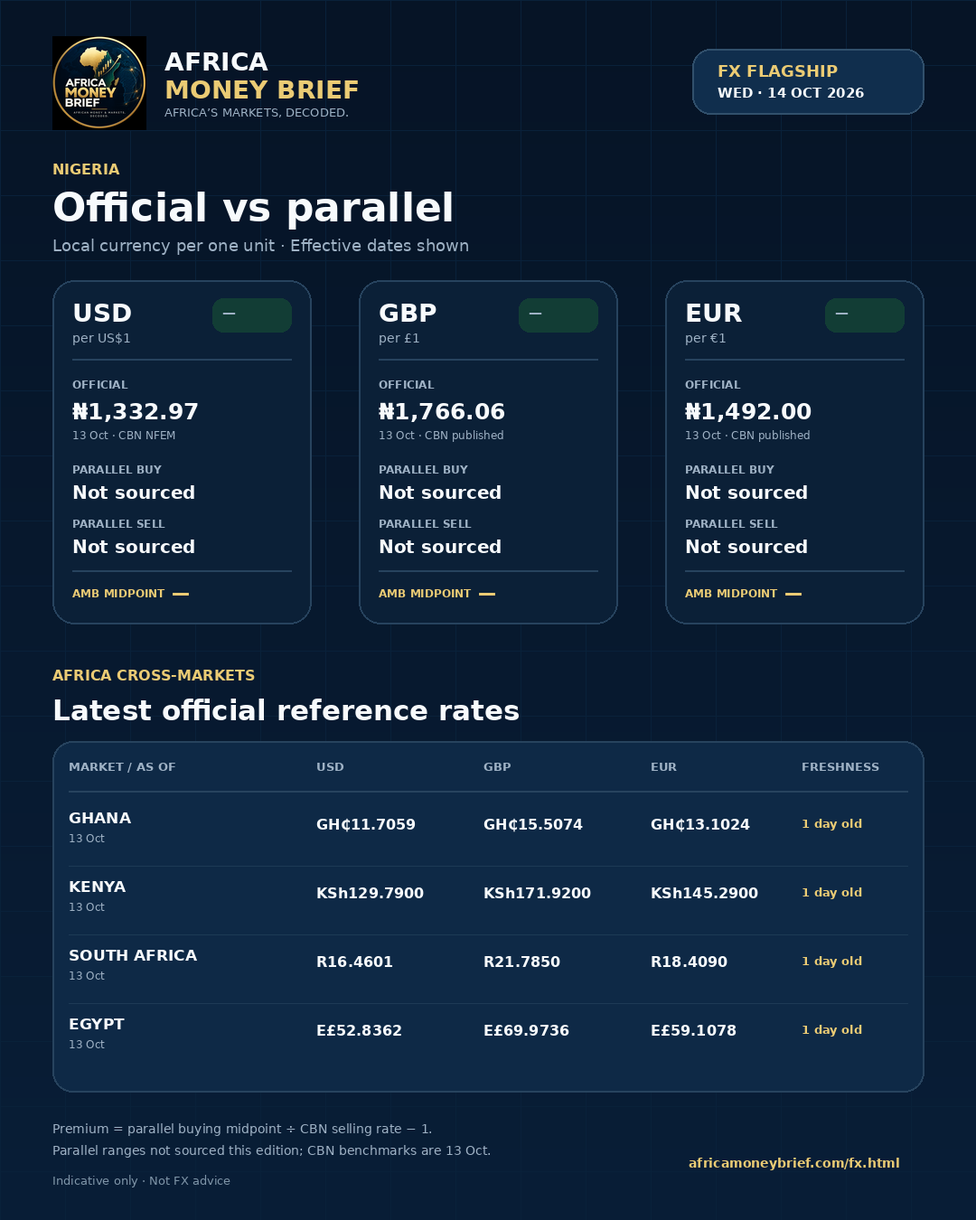
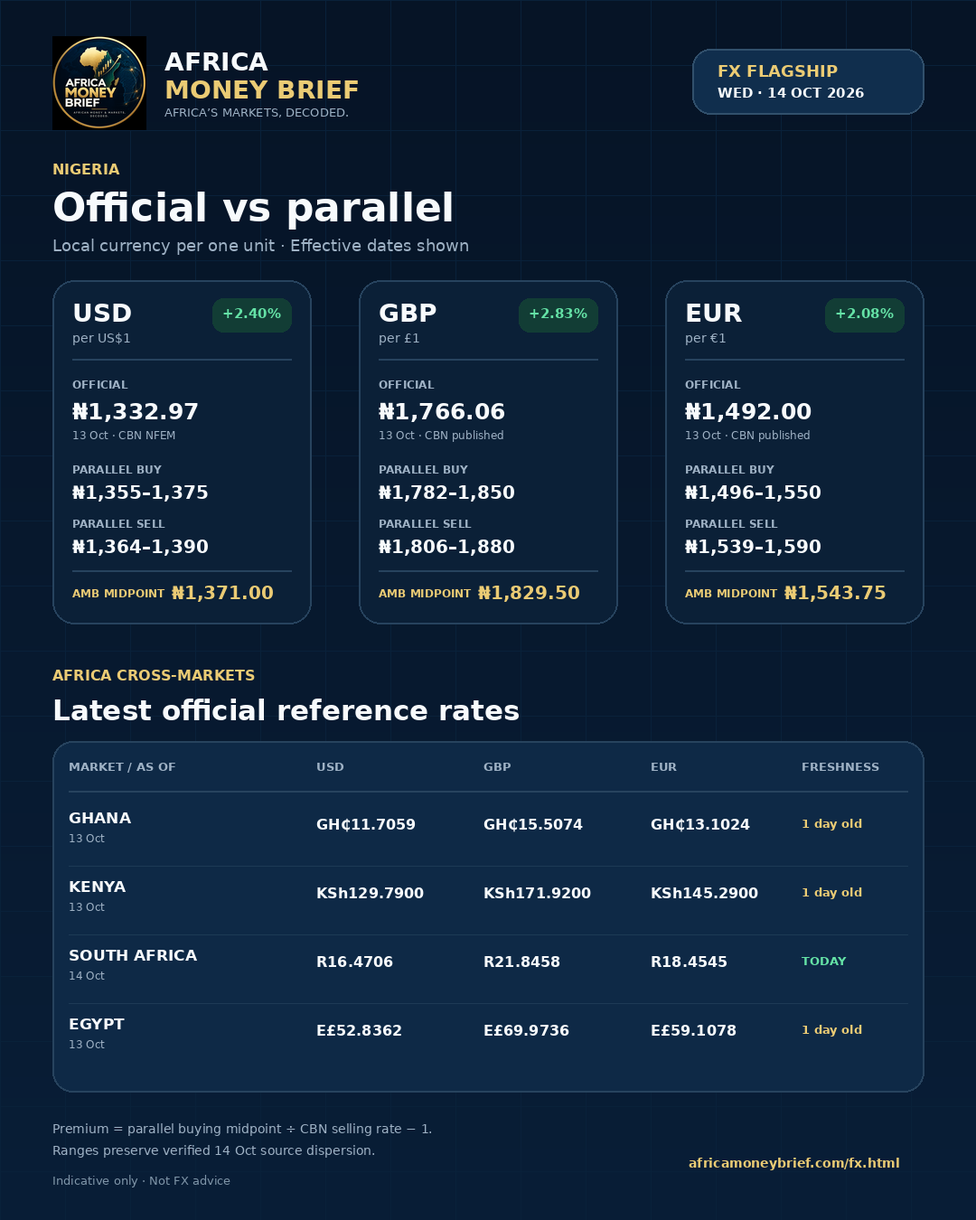
VALIDATED Flagship 2026-10-14

diff --git a/fx.html b/fx.html
@@ -8,15 +8,21 @@
 <div class="tw"><table><thead><tr><th>Currency</th><th>Nigeria official</th><th>Parallel buy / sell</th><th>Premium</th></tr></thead><tbody><tr><td>USD</td><td>₦1,332.97 <small>(13 Oct, CBN selling)</small></td><td>₦1,365–1,375 / ₦1,375–1,390</td><td class="prem">+2.78%</td></tr><tr><td>GBP</td><td>₦1,766.06 <small>(13 Oct, CBN selling)</small></td><td>₦1,810–1,850 / ₦1,835–1,880</td><td class="prem">+3.62%</td></tr><tr><td>EUR</td><td>₦1,492.00 <small>(13 Oct, CBN selling)</small></td><td>₦1,500–1,550 / ₦1,530–1,590</td><td class="prem">+2.21%</td></tr></tbody></table></div>
 <p class="fine">Nigeria parallel-market ranges aggregate multiple independent previous-close/early observations from 13 Oct 16:13-22:06 WAT and 14 Oct 03:00-pre-07:00 WAT. They are not live opening quotes. Material GBP and EUR cross-source dispersion is preserved rather than compressed. Premium = parallel buying midpoint ÷ CBN selling rate - 1.</p>
 <h3 style="margin:22px 0 10px">Africa cross-markets</h3><div class="tw"><table><thead><tr><th>Market</th><th>USD</th><th>GBP</th><th>EUR</th><th>As of</th></tr></thead><tbody><tr><td>Ghana</td><td>GH₵11.7059</td><td>GH₵15.5074</td><td>GH₵13.1024</td><td>13 Oct <span class="chip ok">1 day old</span></td></tr><tr><td>Kenya</td><td>KSh129.7100</td><td>KSh171.6400</td><td>KSh145.0000</td><td>12 Oct <span class="chip warn">2 days old</span></td></tr><tr><td>South Africa</td><td>R16.4601</td><td>R21.7850</td><td>R18.4090</td><td>13 Oct <span class="chip ok">1 day old</span></td></tr><tr><td>Egypt</td><td>E£52.8362</td><td>E£69.9736</td><td>E£59.1078</td><td>13 Oct <span class="chip ok">1 day old</span></td></tr></tbody></table></div>
-<p class="fine">Latest official reference values with effective dates: Ghana mid of Bank of Ghana buy/sell (13 Oct); Kenya CBK commercial-banks’ average closing rates (market close 12 Oct, published 13 Oct; not a standalone buy or sell quote); South Africa SARB weighted-average bank rates at approximately 10:30 on 13 Oct, reverified directly through the SARB HomePageRates endpoint on 14 Oct; Egypt mid of CBE buy/sell (13 Oct). Informational only; not financial or FX advice. The Flagship edition follows after verification.</p></section></details></div><!--/AMB:early-latest--></section><!--AMB:flagship--><section class="section" id="flagship-2026-10-13"><p class="eyebrow">FX FLAGSHIP · EDITION 13 OCT 2026</p><h2 class="h2s" style="margin-top:8px">Nigeria — official vs parallel</h2>
+<p class="fine">Latest official reference values with effective dates: Ghana mid of Bank of Ghana buy/sell (13 Oct); Kenya CBK commercial-banks’ average closing rates (market close 12 Oct, published 13 Oct; not a standalone buy or sell quote); South Africa SARB weighted-average bank rates at approximately 10:30 on 13 Oct, reverified directly through the SARB HomePageRates endpoint on 14 Oct; Egypt mid of CBE buy/sell (13 Oct). Informational only; not financial or FX advice. The Flagship edition follows after verification.</p></section></details></div><!--/AMB:early-latest--></section><!--AMB:flagship--><section class="section" id="flagship-2026-10-14"><p class="eyebrow">FX FLAGSHIP · EDITION 14 OCT 2026</p><h2 class="h2s" style="margin-top:8px">Nigeria — official vs parallel</h2>
+<p class="lead">Local currency per one unit of foreign currency. Every figure carries its effective date.</p>
+<div class="panel"><div class="ph"><h3>USD → NGN <small>per US$1</small></h3><span class="prem big">+2.40%</span></div><div class="grid4"><div><small>CBN NFEM rate · 13 Oct</small><b>₦1,332.97</b></div><div><small>Parallel buy</small><b>₦1,355–1,375</b></div><div><small>Parallel sell</small><b>₦1,364–1,390</b></div><div><small>AMB midpoint</small><b class="gold">₦1,371.00</b></div></div><p class='basis'>CBN NFEM rate (volume-weighted; the CBN’s official selling rate for the day), 13 Oct. The premium uses this rate. Source: <a href='https://www.cbn.gov.ng/rates/ExchRateByCurrency.html'>CBN ↗</a></p></div><div class="panel"><div class="ph"><h3>GBP → NGN <small>per £1</small></h3><span class="prem big">+2.83%</span></div><div class="grid4"><div><small>CBN published rate · 13 Oct</small><b>₦1,766.06</b></div><div><small>Parallel buy</small><b>₦1,782–1,850</b></div><div><small>Parallel sell</small><b>₦1,806–1,880</b></div><div><small>AMB midpoint</small><b class="gold">₦1,829.50</b></div></div><p class='basis'>CBN published selling rate, 13 Oct. The premium uses this rate. Source: <a href='https://www.cbn.gov.ng/rates/ExchRateByCurrency.html'>CBN ↗</a></p></div><div class="panel"><div class="ph"><h3>EUR → NGN <small>per €1</small></h3><span class="prem big">+2.08%</span></div><div class="grid4"><div><small>CBN published rate · 13 Oct</small><b>₦1,492.00</b></div><div><small>Parallel buy</small><b>₦1,496–1,550</b></div><div><small>Parallel sell</small><b>₦1,539–1,590</b></div><div><small>AMB midpoint</small><b class="gold">₦1,543.75</b></div></div><p class='basis'>CBN published selling rate, 13 Oct. The premium uses this rate. Source: <a href='https://www.cbn.gov.ng/rates/ExchRateByCurrency.html'>CBN ↗</a></p></div>
+<p class="fine">Nigeria’s 14 Oct public parallel-market observations showed material cross-source dispersion. The displayed ranges preserve multiple same-day observations rather than force a single quote. Aggregated from multiple independent market sources. Premium = parallel buying midpoint ÷ CBN selling rate − 1. Indicative only; not FX advice.</p>
+<h2 class="h2s">Africa cross-markets — official rates</h2><div class="tw"><table><thead><tr><th>Market</th><th>USD</th><th>GBP</th><th>EUR</th><th>As of</th></tr></thead><tbody><tr><td>Ghana</td><td>GH₵11.7059</td><td>GH₵15.5074</td><td>GH₵13.1024</td><td>13 Oct <span class="chip ok">1 day old</span></td></tr><tr><td>Kenya</td><td>KSh129.7900</td><td>KSh171.9200</td><td>KSh145.2900</td><td>13 Oct <span class="chip ok">1 day old</span></td></tr><tr><td>South Africa</td><td>R16.4706</td><td>R21.8458</td><td>R18.4545</td><td>14 Oct <span class="chip ok">Today</span></td></tr><tr><td>Egypt</td><td>E£52.8362</td><td>E£69.9736</td><td>E£59.1078</td><td>13 Oct <span class="chip ok">1 day old</span></td></tr></tbody></table></div>
+<p class="fine">Latest verified official/reference values with effective dates: Ghana mid of Bank of Ghana buy/sell (13 Oct); Kenya CBK commercial-banks’ average closing rates (market close 13 Oct; not a standalone buy or sell quote); South Africa SARB weighted-average bank rates (14 Oct); Egypt mid of CBE buy/sell (13 Oct, carried forward; CBE unavailable during validation). Primary sources: <a href="https://www.cbn.gov.ng/rates/ExchRateByCurrency.html">CBN</a> · <a href="https://www.bog.gov.gh/treasury-and-the-markets/daily-interbank-fx-rates/">Bank of Ghana</a> · <a href="https://www.centralbank.go.ke/cbk-indicative-rates/">CBK</a> · <a href="https://www.resbank.co.za/en/home/what-we-do/statistics/key-statistics/current-market-rates">SARB</a> · <a href="https://www.cbe.org.eg/en/economic-research/statistics/cbe-exchange-rates">CBE</a>.</p>
+<div class="btns"><a class="btn" href="data/fx/2026-10-14.json">Download this edition (JSON)</a><a class="ghost" href="data/fx/series.csv">CSV</a><a class="ghost" href="archive.html">All editions</a></div></section><!--/AMB:flagship-->
+<section class="section"><div class="heading"><div><p class="eyebrow">EARLIER EDITIONS</p><h2>Earlier today and previous days</h2></div><p>Kept for the record. Each carries its own dates; see the <a href="archive.html" style="color:var(--gold)">archive</a>.</p></div>
+<!--AMB:earlier--><details id="flagship-2026-10-13"><summary>13 Oct · FX Flagship</summary><div class="v2"><section class="section"><p class="eyebrow">FX FLAGSHIP · EDITION 13 OCT 2026</p><h2 class="h2s" style="margin-top:8px">Nigeria — official vs parallel</h2>
 <p class="lead">Local currency per one unit of foreign currency. Every figure carries its effective date.</p>
 <div class="panel"><div class="ph"><h3>USD → NGN <small>per US$1</small></h3><span class="prem big">+2.85%</span></div><div class="grid4"><div><small>CBN NFEM rate · 12 Oct</small><b>₦1,332.10</b></div><div><small>Parallel buy</small><b>₦1,365–1,375</b></div><div><small>Parallel sell</small><b>₦1,373–1,390</b></div><div><small>AMB midpoint</small><b class="gold">₦1,375.75</b></div></div><p class='basis'>CBN NFEM rate (volume-weighted; the CBN’s official selling rate for the day), 12 Oct. The premium uses this rate. Source: <a href='https://www.cbn.gov.ng/rates/ExchRateByCurrency.html'>CBN ↗</a></p></div><div class="panel"><div class="ph"><h3>GBP → NGN <small>per £1</small></h3><span class="prem big">+4.11%</span></div><div class="grid4"><div><small>CBN published rate · 12 Oct</small><b>₦1,762.63</b></div><div><small>Parallel buy</small><b>₦1,820–1,850</b></div><div><small>Parallel sell</small><b>₦1,840–1,880</b></div><div><small>AMB midpoint</small><b class="gold">₦1,847.50</b></div></div><p class='basis'>CBN published selling rate, 12 Oct. The premium uses this rate. Source: <a href='https://www.cbn.gov.ng/rates/ExchRateByCurrency.html'>CBN ↗</a></p></div><div class="panel"><div class="ph"><h3>EUR → NGN <small>per €1</small></h3><span class="prem big">+3.25%</span></div><div class="grid4"><div><small>CBN published rate · 12 Oct</small><b>₦1,489.15</b></div><div><small>Parallel buy</small><b>₦1,525–1,550</b></div><div><small>Parallel sell</small><b>₦1,545–1,590</b></div><div><small>AMB midpoint</small><b class="gold">₦1,552.50</b></div></div><p class='basis'>CBN published selling rate, 12 Oct. The premium uses this rate. Source: <a href='https://www.cbn.gov.ng/rates/ExchRateByCurrency.html'>CBN ↗</a></p></div>
 <p class="fine">Nigeria’s 13 Oct public parallel-market observations showed material cross-source dispersion. The displayed ranges preserve verified same-day observations rather than force a single quote. Premium = parallel buying midpoint ÷ CBN selling rate − 1. Indicative only; not FX advice.</p>
 <h2 class="h2s">Africa cross-markets — official rates</h2><div class="tw"><table><thead><tr><th>Market</th><th>USD</th><th>GBP</th><th>EUR</th><th>As of</th></tr></thead><tbody><tr><td>Ghana</td><td>GH₵11.7700</td><td>GH₵15.5417</td><td>GH₵13.1325</td><td>12 Oct <span class="chip ok">1 day old</span></td></tr><tr><td>Kenya</td><td>KSh129.7100</td><td>KSh171.6400</td><td>KSh145.0000</td><td>13 Oct <span class="chip ok">Today</span></td></tr><tr><td>South Africa</td><td>R16.4601</td><td>R21.7850</td><td>R18.4090</td><td>13 Oct <span class="chip ok">Today</span></td></tr><tr><td>Egypt</td><td>E£52.6707</td><td>E£69.6859</td><td>E£58.8753</td><td>12 Oct <span class="chip ok">1 day old</span></td></tr></tbody></table></div>
 <p class="fine">Latest verified official/reference values with effective dates: Ghana mid of Bank of Ghana buy/sell (12 Oct); Kenya CBK commercial-banks’ average closing rates (13 Oct); South Africa SARB weighted-average bank rates at approximately 10:30 (13 Oct); Egypt mid of the latest retrievable CBE buy/sell table (12 Oct). Primary sources: <a href="https://www.cbn.gov.ng/rates/ExchRateByCurrency.html">CBN</a> · <a href="https://www.bog.gov.gh/treasury-and-the-markets/daily-interbank-fx-rates/">Bank of Ghana</a> · <a href="https://www.centralbank.go.ke/cbk-indicative-rates/">CBK</a> · <a href="https://www.resbank.co.za/en/home/what-we-do/statistics/key-statistics/current-market-rates">SARB</a> · <a href="https://www.cbe.org.eg/en/economic-research/statistics/cbe-exchange-rates">CBE</a>.</p>
-<div class="btns"><a class="btn" href="data/fx/2026-10-13.json">Download this edition (JSON)</a><a class="ghost" href="data/fx/series.csv">CSV</a><a class="ghost" href="archive.html">All editions</a></div></section><!--/AMB:flagship-->
-<section class="section"><div class="heading"><div><p class="eyebrow">EARLIER EDITIONS</p><h2>Earlier today and previous days</h2></div><p>Kept for the record. Each carries its own dates; see the <a href="archive.html" style="color:var(--gold)">archive</a>.</p></div>
-<!--AMB:earlier--><details id="flagship-2026-10-12"><summary>12 Oct · FX Flagship</summary><div class="v2"><section class="section"><p class="eyebrow">FX FLAGSHIP · EDITION 12 OCT 2026</p><h2 class="h2s" style="margin-top:8px">Nigeria — official vs parallel</h2>
+<div class="btns"><a class="btn" href="data/fx/2026-10-13.json">Download this edition (JSON)</a><a class="ghost" href="data/fx/series.csv">CSV</a><a class="ghost" href="archive.html">All editions</a></div></section></div></details><details id="flagship-2026-10-12"><summary>12 Oct · FX Flagship</summary><div class="v2"><section class="section"><p class="eyebrow">FX FLAGSHIP · EDITION 12 OCT 2026</p><h2 class="h2s" style="margin-top:8px">Nigeria — official vs parallel</h2>
 <p class="lead">Local currency per one unit of foreign currency. Every figure carries its effective date.</p>
 <div class="panel"><div class="ph"><h3>USD → NGN <small>per US$1</small></h3><span class="prem big">+2.92%</span></div><div class="grid4"><div><small>CBN NFEM rate · 9 Oct</small><b>₦1,331.19</b></div><div><small>Parallel buy</small><b>₦1,370</b></div><div><small>Parallel sell</small><b>₦1,380</b></div><div><small>AMB midpoint</small><b class="gold">₦1,375.00</b></div></div><p class='basis'>CBN NFEM rate (volume-weighted; the CBN’s official selling rate for the day), 9 Oct. The premium uses this rate. Source: <a href='https://www.cbn.gov.ng/rates/ExchRateByCurrency.html'>CBN ↗</a></p></div><div class="panel"><div class="ph"><h3>GBP → NGN <small>per £1</small></h3><span class="prem big">+3.32%</span></div><div class="grid4"><div><small>CBN published rate · 9 Oct</small><b>₦1,759.16</b></div><div><small>Parallel buy</small><b>₦1,810–1,825</b></div><div><small>Parallel sell</small><b>₦1,845–1,850</b></div><div><small>AMB midpoint</small><b class="gold">₦1,832.50</b></div></div><p class='basis'>CBN published selling rate, 9 Oct. The premium uses this rate. Source: <a href='https://www.cbn.gov.ng/rates/ExchRateByCurrency.html'>CBN ↗</a></p></div><div class="panel"><div class="ph"><h3>EUR → NGN <small>per €1</small></h3><span class="prem big">+1.96%</span></div><div class="grid4"><div><small>CBN published rate · 9 Oct</small><b>₦1,490.80</b></div><div><small>Parallel buy</small><b>₦1,520</b></div><div><small>Parallel sell</small><b>₦1,540–1,560</b></div><div><small>AMB midpoint</small><b class="gold">₦1,535.00</b></div></div><p class='basis'>CBN published selling rate, 9 Oct. The premium uses this rate. Source: <a href='https://www.cbn.gov.ng/rates/ExchRateByCurrency.html'>CBN ↗</a></p></div>
 <p class="fine">Parallel observations: aggregated from multiple independent market sources; rates vary by location and transaction size. Premium = parallel buying midpoint ÷ CBN selling rate − 1. Indicative only; not FX advice.</p>

diff --git a/archive.html b/archive.html
@@ -3,5 +3,5 @@
 <link rel="stylesheet" href="assets/privacy.css">
 <script defer src="assets/privacy.js"></script>
 <meta charset="utf-8"><meta name="viewport" content="width=device-width,initial-scale=1"><meta name="description" content="Every Africa Money Brief FX edition, with links to the page and dataset."><meta name="theme-color" content="#061426"><link rel="canonical" href="https://africamoneybrief.com/archive.html"><meta property="og:site_name" content="Africa Money Brief"><meta property="og:title" content="Archive | Africa Money Brief"><meta property="og:description" content="Every Africa Money Brief FX edition, with links to the page and dataset."><meta property="og:image" content="https://africamoneybrief.com/assets/africa-money-brief-cover.png"><meta property="og:type" content="website"><meta name="twitter:card" content="summary_large_image"><title>Archive | Africa Money Brief</title><link rel="icon" type="image/png" href="assets/africa-money-brief-logo.png"><link rel="stylesheet" href="styles.css"><link rel="stylesheet" href="assets/redesign.css"></head><body><header><a class="logo brand-logo" href="index.html"><img src="assets/africa-money-brief-logo.png" alt="Africa Money Brief logo"><span>AFRICA <em>MONEY BRIEF</em><small>AFRICA’S MARKETS, DECODED.</small></span></a><nav><a class="" href="index.html">HOME</a><a class="" href="fx.html">FX</a><a class="" href="capital-markets.html">CAPITAL MARKETS</a><a class="" href="money-rates.html">MONEY &amp; RATES</a><a class="" href="real-estate.html">REAL ESTATE</a><a class="" href="data.html">DATA</a><a class="active" href="archive.html">ARCHIVE</a><a class="x" href="https://x.com/AMBriefDaily">Follow @AMBriefDaily ↗</a></nav></header>
-<main><section class="subhero"><div><p class="eyebrow">ARCHIVE</p><h1>Every edition,<br><i>one place.</i></h1><p class="lead">Filter by type. Editions with a structured dataset link to it; older ones are page-only.</p></div><div class="subhero-brand"><img src="assets/africa-money-brief-logo.png" alt="Africa Money Brief"><span>AFRICA’S MARKETS,<br><b>DECODED.</b></span></div></section><div class="v2"><section class="section"><div class="filters" role="group" aria-label="Filter editions"><button class="on" data-f="all">All</button><button data-f="Flagship">FX Flagship</button><button data-f="Early Look">Early Look</button></div><div><!--AMB:archive-list--><div class="ai" data-t="Early Look"><span class="ad">14 Oct 2026</span><div><b>Early Look</b><br><small>Structured dataset</small></div><div class="al"><a href="fx.html#early-look-2026-10-14">View</a><a href="data/fx/early-2026-10-14.json">JSON</a></div></div><div class="ai" data-t="Flagship"><span class="ad">13 Oct 2026</span><div><b>FX Flagship</b><br><small>Structured dataset</small></div><div class="al"><a href="fx.html#flagship-2026-10-13">View</a><a href="data/fx/2026-10-13.json">JSON</a></div></div><div class="ai" data-t="Early Look"><span class="ad">13 Oct 2026</span><div><b>Early Look</b><br><small>Structured dataset</small></div><div class="al"><a href="fx.html#early-look-2026-10-13">View</a><a href="data/fx/early-2026-10-13.json">JSON</a></div></div><div class="ai" data-t="Flagship"><span class="ad">12 Oct 2026</span><div><b>FX Flagship</b><br><small>Structured dataset</small></div><div class="al"><a href="fx.html#flagship-2026-10-12">View</a><a href="data/fx/2026-10-12.json">JSON</a></div></div><div class="ai" data-t="Flagship"><span class="ad">9 Oct 2026</span><div><b>FX Flagship (corrected)</b><br><small>Structured dataset</small></div><div class="al"><a href="fx.html#flagship-2026-10-09">View</a><a href="data/fx/2026-10-09.json">JSON</a></div></div><div class="ai" data-t="Early Look"><span class="ad">9 Oct 2026</span><div><b>Early Look</b><br><small>Page only · dataset not published</small></div><div class="al"><a href="fx.html#early-look-2026-10-09">View</a></div></div><div class="ai" data-t="Flagship"><span class="ad">8 Oct 2026</span><div><b>FX Flagship</b><br><small>Structured dataset</small></div><div class="al"><a href="fx.html#fx-flagship-2026-10-08">View</a><a href="data/2026-10-08-africa-fx-flagship.json">JSON</a></div></div><div class="ai" data-t="Early Look"><span class="ad">8 Oct 2026</span><div><b>Early Look</b><br><small>Page only · dataset not published</small></div><div class="al"><a href="fx.html#early-look-2026-10-08">View</a></div></div><div class="ai" data-t="Flagship"><span class="ad">7 Oct 2026</span><div><b>FX Flagship</b><br><small>Page only · dataset not published</small></div><div class="al"><a href="archive/2026-10-07-fx-flagship.html">View</a></div></div><!--/AMB:archive-list--></div><p class="fine">Newest first. <a href="briefings.html" style="color:var(--gold)">Briefings page</a></p></section></div>
+<main><section class="subhero"><div><p class="eyebrow">ARCHIVE</p><h1>Every edition,<br><i>one place.</i></h1><p class="lead">Filter by type. Editions with a structured dataset link to it; older ones are page-only.</p></div><div class="subhero-brand"><img src="assets/africa-money-brief-logo.png" alt="Africa Money Brief"><span>AFRICA’S MARKETS,<br><b>DECODED.</b></span></div></section><div class="v2"><section class="section"><div class="filters" role="group" aria-label="Filter editions"><button class="on" data-f="all">All</button><button data-f="Flagship">FX Flagship</button><button data-f="Early Look">Early Look</button></div><div><!--AMB:archive-list--><div class="ai" data-t="Flagship"><span class="ad">14 Oct 2026</span><div><b>FX Flagship</b><br><small>Structured dataset</small></div><div class="al"><a href="fx.html#flagship-2026-10-14">View</a><a href="data/fx/2026-10-14.json">JSON</a></div></div><div class="ai" data-t="Early Look"><span class="ad">14 Oct 2026</span><div><b>Early Look</b><br><small>Structured dataset</small></div><div class="al"><a href="fx.html#early-look-2026-10-14">View</a><a href="data/fx/early-2026-10-14.json">JSON</a></div></div><div class="ai" data-t="Flagship"><span class="ad">13 Oct 2026</span><div><b>FX Flagship</b><br><small>Structured dataset</small></div><div class="al"><a href="fx.html#flagship-2026-10-13">View</a><a href="data/fx/2026-10-13.json">JSON</a></div></div><div class="ai" data-t="Early Look"><span class="ad">13 Oct 2026</span><div><b>Early Look</b><br><small>Structured dataset</small></div><div class="al"><a href="fx.html#early-look-2026-10-13">View</a><a href="data/fx/early-2026-10-13.json">JSON</a></div></div><div class="ai" data-t="Flagship"><span class="ad">12 Oct 2026</span><div><b>FX Flagship</b><br><small>Structured dataset</small></div><div class="al"><a href="fx.html#flagship-2026-10-12">View</a><a href="data/fx/2026-10-12.json">JSON</a></div></div><div class="ai" data-t="Flagship"><span class="ad">9 Oct 2026</span><div><b>FX Flagship (corrected)</b><br><small>Structured dataset</small></div><div class="al"><a href="fx.html#flagship-2026-10-09">View</a><a href="data/fx/2026-10-09.json">JSON</a></div></div><div class="ai" data-t="Early Look"><span class="ad">9 Oct 2026</span><div><b>Early Look</b><br><small>Page only · dataset not published</small></div><div class="al"><a href="fx.html#early-look-2026-10-09">View</a></div></div><div class="ai" data-t="Flagship"><span class="ad">8 Oct 2026</span><div><b>FX Flagship</b><br><small>Structured dataset</small></div><div class="al"><a href="fx.html#fx-flagship-2026-10-08">View</a><a href="data/2026-10-08-africa-fx-flagship.json">JSON</a></div></div><div class="ai" data-t="Early Look"><span class="ad">8 Oct 2026</span><div><b>Early Look</b><br><small>Page only · dataset not published</small></div><div class="al"><a href="fx.html#early-look-2026-10-08">View</a></div></div><div class="ai" data-t="Flagship"><span class="ad">7 Oct 2026</span><div><b>FX Flagship</b><br><small>Page only · dataset not published</small></div><div class="al"><a href="archive/2026-10-07-fx-flagship.html">View</a></div></div><!--/AMB:archive-list--></div><p class="fine">Newest first. <a href="briefings.html" style="color:var(--gold)">Briefings page</a></p></section></div>
 <script>document.querySelectorAll('.filters button').forEach(function(b){b.onclick=function(){document.querySelectorAll('.filters button').forEach(function(x){x.classList.remove('on')});b.classList.add('on');document.querySelectorAll('.ai').forEach(function(a){a.style.display=(b.dataset.f=='all'||a.dataset.t==b.dataset.f)?'':'none'})}})</script></main><footer><div class="logo footer-logo"><img src="assets/africa-money-brief-logo.png" alt="Africa Money Brief logo"><span>AFRICA <em>MONEY BRIEF</em></span></div><p>FX • CAPITAL MARKETS • MONEY & RATES • REAL ESTATE • ECONOMY</p><div class="footerlinks"><a href="mailto:connect@ambriefdaily.com">Contact: connect@ambriefdaily.com</a><a href="privacy.html">Privacy &amp; Cookies</a><button type="button" class="amb-cookie-settings" data-amb-cookie-settings>Cookie settings</button><a href="methodology.html">Methodology</a><a href="briefings.html">Briefings</a><a href="about.html">About</a><a href="https://x.com/AMBriefDaily">@AMBriefDaily ↗</a></div></footer></body></html>

diff --git a/index.html b/index.html
@@ -6,11 +6,11 @@
 <header><a class="logo brand-logo" href="index.html"><img src="assets/africa-money-brief-logo.png" alt="Africa Money Brief logo"><span>AFRICA <em>MONEY BRIEF</em><small>AFRICA’S MARKETS, DECODED.</small></span></a><nav><a class="active" href="index.html">HOME</a><a class="" href="fx.html">FX</a><a class="" href="capital-markets.html">CAPITAL MARKETS</a><a class="" href="money-rates.html">MONEY &amp; RATES</a><a class="" href="real-estate.html">REAL ESTATE</a><a class="" href="data.html">DATA</a><a class="" href="archive.html">ARCHIVE</a><a class="x" href="https://x.com/AMBriefDaily">Follow @AMBriefDaily ↗</a></nav></header>
 <main><section class="brand-cover" aria-label="Africa Money Brief brand cover"><img src="assets/africa-money-brief-cover.png" alt="Africa Money Brief — African money and markets, decoded."><div class="cover-overlay"><span>THE DAILY HOME FOR AFRICA’S MARKETS</span></div></section>
 <section class="hero"><div><p class="eyebrow">AFRICA’S MARKETS, MADE CLEAR</p><h1>Know the rates.<br><i>Understand the move.</i></h1><p class="lead">African FX benchmarks, central-bank signals and market context — concise enough for your morning, rigorous enough for your decisions.</p><div class="actions"><a class="btn" href="fx.html">Today’s FX brief →</a><a class="ghost" href="https://x.com/AMBriefDaily">Follow on X</a></div><div class="trust">✓ Source-aware &nbsp;&nbsp; ✓ Time-stamped &nbsp;&nbsp; ✓ Official vs. market clearly labeled</div></div>
-<!--AMB:board--><div class="board"><div class="boardtop"><span>NIGERIA · PARALLEL BUY MIDPOINT</span><span class="live">EDITION 13 OCT</span></div><div id="mini"><div class="r"><div>USD/NGN<small>CBN NFEM ₦1,332.10 · 12 Oct</small></div><strong>₦1,370.00 <span class="prem" style="color:#64e2a6;font-size:14px">+2.85%</span></strong></div><div class="r"><div>GBP/NGN<small>CBN published ₦1,762.63 · 12 Oct</small></div><strong>₦1,835.00 <span class="prem" style="color:#64e2a6;font-size:14px">+4.11%</span></strong></div><div class="r"><div>EUR/NGN<small>CBN published ₦1,489.15 · 12 Oct</small></div><strong>₦1,537.50 <span class="prem" style="color:#64e2a6;font-size:14px">+3.25%</span></strong></div></div><p id="verified">Premium = parallel buying midpoint ÷ CBN selling rate − 1. Edition 13 Oct. Indicative only.</p></div><!--/AMB:board--></section>
+<!--AMB:board--><div class="board"><div class="boardtop"><span>NIGERIA · PARALLEL BUY MIDPOINT</span><span class="live">EDITION 14 OCT</span></div><div id="mini"><div class="r"><div>USD/NGN<small>CBN NFEM ₦1,332.97 · 13 Oct</small></div><strong>₦1,365.00 <span class="prem" style="color:#64e2a6;font-size:14px">+2.40%</span></strong></div><div class="r"><div>GBP/NGN<small>CBN published ₦1,766.06 · 13 Oct</small></div><strong>₦1,816.00 <span class="prem" style="color:#64e2a6;font-size:14px">+2.83%</span></strong></div><div class="r"><div>EUR/NGN<small>CBN published ₦1,492.00 · 13 Oct</small></div><strong>₦1,523.00 <span class="prem" style="color:#64e2a6;font-size:14px">+2.08%</span></strong></div></div><p id="verified">Premium = parallel buying midpoint ÷ CBN selling rate − 1. Edition 14 Oct. Indicative only.</p></div><!--/AMB:board--></section>
 
 <!--AMB:early-home--><div class="v2"><section class="section"><div class="heading"><div><p class="eyebrow">TODAY'S FX EARLY LOOK · 14 OCT 2026</p><h2>Previous close and latest benchmarks</h2></div><p>Pre-market reference; not live opening quotes. <a href="fx.html#early-look-2026-10-14" style="color:var(--gold)">Full Early Look →</a></p></div><div class="dashgrid"><div class="metric"><small>USD / NGN · 13 Oct</small><strong>+2.78%</strong><span>CBN ₦1,332.97 · Buy ₦1,365–₦1,375 · Sell ₦1,375–₦1,390</span></div><div class="metric"><small>GBP / NGN · 13 Oct</small><strong>+3.62%</strong><span>CBN ₦1,766.06 · Buy ₦1,810–₦1,850 · Sell ₦1,835–₦1,880</span></div><div class="metric"><small>EUR / NGN · 13 Oct</small><strong>+2.21%</strong><span>CBN ₦1,492.00 · Buy ₦1,500–₦1,550 · Sell ₦1,530–₦1,590</span></div><div class="metric"><small>AFRICA CROSS-MARKETS</small><strong>4 markets</strong><span>GH 13 Oct · KE 12 Oct · ZA 13 Oct · EG 13 Oct</span></div></div><p class="fine">Nigeria parallel ranges: previous close / early; aggregated from multiple independent market sources. Effective dates are shown in the full edition. Indicative only; not FX advice.</p></section></div><!--/AMB:early-home--><div class="mr"><section class="section" id="calc"><div class="heading"><div><p class="eyebrow">ESTIMATE EARNINGS</p><h2>What would my money earn?</h2></div><p>Pick a Treasury bill or deposit, enter an amount, and see the simple interest. <a href="money-rates.html" style="color:var(--gold)">Compare all rates →</a></p></div><div class="calc" id="amb-calc"><div><div class="f"><label for="cp">PRODUCT</label><select id="cp"></select></div><div class="f"><label for="ca">AMOUNT</label><input id="ca" type="number" inputmode="decimal" min="0" step="1000" value="10000000"></div><div class="f" id="cmw"><label for="cm">MONTHS HELD</label><input id="cm" type="number" min="1" max="12" step="1" value="12"></div></div>
 <div class="res"><span id="cl">Estimated interest</span><strong id="ci">—</strong><span id="cs">Loading rates…</span><span style="font-size:12px;color:#8ba0b3">Indicative gross interest before tax, fees and exchange-rate changes. Source dates and older-data warnings appear above. Tiered bank rates depend on the entered balance; banking averages are not offers. Bills are held to maturity; deposit rates are assumed unchanged.</span></div></div>
-<script src="assets/calc.js?v=20261009-tiers"></script></section></div><!--AMB:glance--><div class="v2"><section class="section"><div class="heading"><div><p class="eyebrow">TODAY AT A GLANCE</p><h2>Premium: parallel buy vs CBN selling rate</h2></div><p>Edition 13 Oct 2026. CBN NFEM rate for USD; GBP and EUR as dated. <a href="fx.html" style="color:var(--gold)">Full FX brief →</a></p></div><div class="dashgrid"><div class="metric"><small>USD / NGN</small><strong>+2.85%</strong><span>Parallel buy mid ₦1,370.00 vs CBN ₦1,332.10</span></div><div class="metric"><small>GBP / NGN</small><strong>+4.11%</strong><span>Parallel buy mid ₦1,835.00 vs CBN ₦1,762.63</span></div><div class="metric"><small>EUR / NGN</small><strong>+3.25%</strong><span>Parallel buy mid ₦1,537.50 vs CBN ₦1,489.15</span></div><div class="metric"><small>Coverage</small><strong>5 markets</strong><span>NG · GH · KE · ZA · EG</span></div></div></section></div><!--/AMB:glance--><section class="section market-portals"><div class="heading"><div><p class="eyebrow">EXPLORE AMB</p><h2>Four markets. One African lens.</h2></div><p>Move from the daily headline to the market that matters to you.</p></div><div class="portalgrid">
+<script src="assets/calc.js?v=20261009-tiers"></script></section></div><!--AMB:glance--><div class="v2"><section class="section"><div class="heading"><div><p class="eyebrow">TODAY AT A GLANCE</p><h2>Premium: parallel buy vs CBN selling rate</h2></div><p>Edition 14 Oct 2026. CBN NFEM rate for USD; GBP and EUR as dated. <a href="fx.html" style="color:var(--gold)">Full FX brief →</a></p></div><div class="dashgrid"><div class="metric"><small>USD / NGN</small><strong>+2.40%</strong><span>Parallel buy mid ₦1,365.00 vs CBN ₦1,332.97</span></div><div class="metric"><small>GBP / NGN</small><strong>+2.83%</strong><span>Parallel buy mid ₦1,816.00 vs CBN ₦1,766.06</span></div><div class="metric"><small>EUR / NGN</small><strong>+2.08%</strong><span>Parallel buy mid ₦1,523.00 vs CBN ₦1,492.00</span></div><div class="metric"><small>Coverage</small><strong>5 markets</strong><span>NG · GH · KE · ZA · EG</span></div></div></section></div><!--/AMB:glance--><section class="section market-portals"><div class="heading"><div><p class="eyebrow">EXPLORE AMB</p><h2>Four markets. One African lens.</h2></div><p>Move from the daily headline to the market that matters to you.</p></div><div class="portalgrid">
 <a class="portal fxp" href="fx.html"><span class="portal-icon">FX</span><small>CURRENCIES</small><h3>FX Markets</h3><p>Official rates, parallel markets, spreads, reserves and currency policy.</p><b>Open FX →</b></a>
 <a class="portal capp" href="capital-markets.html"><span class="portal-icon">↗</span><small>INVESTING</small><h3>Capital Markets</h3><p>Equities, IPOs, bonds, indices, valuations and market movers.</p><b>Open Capital Markets →</b></a>
 <a class="portal moneyp" href="money-rates.html"><span class="portal-icon">%</span><small>MACRO & RATES</small><h3>Money & Rates</h3><p>Policy rates, inflation, liquidity, fixed income and central banks.</p><b>Open Money & Rates →</b></a>

diff --git a/data.html b/data.html
@@ -4,7 +4,7 @@
 <script defer src="assets/privacy.js"></script>
 <meta charset="utf-8"><meta name="viewport" content="width=device-width,initial-scale=1"><meta name="description" content="Open FX datasets and methodology from Africa Money Brief."><meta name="theme-color" content="#061426"><link rel="canonical" href="https://africamoneybrief.com/data.html"><meta property="og:site_name" content="Africa Money Brief"><meta property="og:title" content="Data | Africa Money Brief"><meta property="og:description" content="Open FX datasets and methodology from Africa Money Brief."><meta property="og:image" content="https://africamoneybrief.com/assets/africa-money-brief-cover.png"><meta property="og:type" content="website"><meta name="twitter:card" content="summary_large_image"><title>Data | Africa Money Brief</title><link rel="icon" type="image/png" href="assets/africa-money-brief-logo.png"><link rel="stylesheet" href="styles.css"><link rel="stylesheet" href="assets/redesign.css"></head><body><header><a class="logo brand-logo" href="index.html"><img src="assets/africa-money-brief-logo.png" alt="Africa Money Brief logo"><span>AFRICA <em>MONEY BRIEF</em><small>AFRICA’S MARKETS, DECODED.</small></span></a><nav><a class="" href="index.html">HOME</a><a class="" href="fx.html">FX</a><a class="" href="capital-markets.html">CAPITAL MARKETS</a><a class="" href="money-rates.html">MONEY &amp; RATES</a><a class="" href="real-estate.html">REAL ESTATE</a><a class="active" href="data.html">DATA</a><a class="" href="archive.html">ARCHIVE</a><a class="x" href="https://x.com/AMBriefDaily">Follow @AMBriefDaily ↗</a></nav></header>
 <main><section class="subhero"><div><p class="eyebrow">AMB DATA</p><h1>Today’s market.<br><i>Built into history.</i></h1><p class="lead">A growing African market-data layer for verified FX observations, spreads, policy rates, inflation, yields and property indicators.</p></div><div class="subhero-brand"><img src="assets/africa-money-brief-logo.png" alt="Africa Money Brief"><span>DATA WITH<br><b>CONTEXT.</b></span></div></section><div class="v2"><section class="section"><div class="heading"><div><p class="eyebrow">OPEN DATA</p><h2>Download the latest edition</h2></div><p>Each edition is published as one dataset; the page and downloads come from the same figures.</p></div>
-<div class="cards"><!--AMB:data-latest--><article class="card feature"><span class="tag">LATEST · 2026-10-13</span><h3>FX Flagship dataset</h3><p><a href="data/fx/latest.json" style="color:var(--gold)">JSON</a> · <a href="data/fx/series.csv" style="color:var(--gold)">CSV</a> · <a href="data/fx/2026-10-13.json" style="color:var(--gold)">dated copy</a></p></article><!--/AMB:data-latest--><article class="card"><span class="tag">SCHEMA</span><h3>CSV fields</h3><p>date, pair, market, rate_type, low, high, mid, official, premium_pct, asof</p></article><article class="card"><span class="tag">PREVIOUS</span><h3>8 Oct and 7 Oct</h3><p><a href="data/2026-10-08-africa-fx-flagship.json" style="color:var(--gold)">8 Oct JSON</a> · <a href="data/2026-10-07-africa-fx-early-look.json" style="color:var(--gold)">7 Oct Early Look JSON</a></p></article></div>
+<div class="cards"><!--AMB:data-latest--><article class="card feature"><span class="tag">LATEST · 2026-10-14</span><h3>FX Flagship dataset</h3><p><a href="data/fx/latest.json" style="color:var(--gold)">JSON</a> · <a href="data/fx/series.csv" style="color:var(--gold)">CSV</a> · <a href="data/fx/2026-10-14.json" style="color:var(--gold)">dated copy</a></p></article><!--/AMB:data-latest--><article class="card"><span class="tag">SCHEMA</span><h3>CSV fields</h3><p>date, pair, market, rate_type, low, high, mid, official, premium_pct, asof</p></article><article class="card"><span class="tag">PREVIOUS</span><h3>8 Oct and 7 Oct</h3><p><a href="data/2026-10-08-africa-fx-flagship.json" style="color:var(--gold)">8 Oct JSON</a> · <a href="data/2026-10-07-africa-fx-early-look.json" style="color:var(--gold)">7 Oct Early Look JSON</a></p></article></div>
 <h2 class="h2s">How we calculate</h2><ul class="lst"><li><b>Premium</b> = (parallel buying midpoint ÷ CBN selling rate − 1) × 100: what you gain by buying at the CBN’s selling rate and selling to a parallel-market operator at their buying rate.</li><li><b>Official rates</b>: the latest published Central Bank of Nigeria figures, with the date shown. USD is the CBN NFEM rate (equal to the CBN’s selling rate). GBP and EUR are derived when the CBN’s rows lag: CBN NFEM × the ECB reference cross for the same day, checked against the CBN’s own rows (flagged if more than 0.3% apart).</li><li><b>AMB midpoint</b> is informational: the average of the buy-range and sell-range midpoints.</li><li><b>Wide-range flag</b> when a quote range exceeds the larger of ₦20 or 1.5% of the midpoint; quotes failing outlier checks are held back.</li><li><b>Freshness</b> badges show days since each official rate’s effective date.</li><li><b>Sources</b>: official rates cite the benchmark; parallel observations are aggregated from multiple independent market sources, not named individually.</li></ul></section></div>
 
 <section class="section"><div class="heading"><div><p class="eyebrow">DATASETS</p><h2>AMB trackers</h2></div><p>The archive begins with verified production observations. Demonstration figures are not carried into the historical record.</p></div><div class="portalgrid">

diff --git a/handoff/fx/2026-10-14-flagship.md b/handoff/fx/2026-10-14-flagship.md
@@ -1,55 +1,45 @@
-# Flagship 2026-10-14 — handoff note
+# Flagship 2026-10-14 — validator handoff note
 
-**Status: PREPARED — NOT PUBLISHED**
-**Flags: BLOCKED_SOURCE (Nigeria parallel; SARB and CBE unreachable, carried forward)**
+**Status: VALIDATED — READY FOR WEBSITE-FIRST PUBLICATION**
 
-- Branch: `staging/claude-fx` (synchronised with `main` @ 59fd3fb before preparation)
-- Commit SHA: the tip commit "PREPARED Flagship 2026-10-14" (a commit cannot contain its own hash; the SHA is in the run summary and `git log -1`)
-- Verification timestamp: 2026-10-14 11:45 WAT (sources fetched 11:33–11:45 WAT)
+- Prepared candidate: `staging/claude-fx` commit `95f2efd` (`PREPARED Flagship 2026-10-14`).
+- Independent validation completed 14 Oct 2026 at 13:00 WAT.
+- Corrections: added corroborated 14 Oct Nigeria parallel-market ranges and updated South Africa to the SARB 14 Oct values.
 
-## Files
-- `data/fx/2026-10-14.json` (schema amb-fx-site/1, status Prepared)
+## Final files
+
+- `data/fx/2026-10-14.json` (`amb-fx-site/1`, status `Validated`)
 - `assets/social/AMB_FX_Flagship_2026-10-14.png` (1080×1350)
 - `assets/social/AMB_FX_Flagship_2026-10-14.txt`
-- Tool changes: `tools/render.py` (Flagship validator/site blocks/series accept official-only Nigeria and show "Not sourced"; unchanged when parallel data is present), `tools/render_fx_social_text.py` (same for the text). `tools/render_fx_social.py` needed no change.
-- Generated site pages (fx.html, index.html, archive.html, data.html, data/fx/index.json, latest.json, series.csv) were produced by `render.py` to test, then reverted, not staged. Codex re-runs `python3 tools/render.py` on publish.
+- Generated production pages and feeds from `python3 tools/render.py`
 
-## Official sources and effective dates
-| Market | Source | Effective | Label |
-|---|---|---|---|
-| Nigeria | CBN https://www.cbn.gov.ng/rates/ExchRateByCurrency.html (API /api/GetAllExchangeRates, /api/GetAllNFEM_RatesGRAPH) | 13 Oct 2026 (latest in feed; 14 Oct not posted at 11:40 WAT) | latest available benchmark |
-| Ghana | Bank of Ghana https://www.bog.gov.gh/treasury-and-the-markets/daily-interbank-fx-rates/ | 13 Oct 2026 (latest dated table) | Daily Interbank buy/sell mid |
-| Kenya | CBK https://www.centralbank.go.ke/cbk-indicative-rates/ — Daily KES PDF listed 14/10/2026, states "closing of market on 13-Oct-26" | Market close 13 Oct 2026 | commercial-banks' average closing rates, not a buy or sell quote |
-| South Africa | SARB https://www.resbank.co.za/en/home/what-we-do/statistics/key-statistics/current-market-rates | 13 Oct 2026 ~10:30 | CARRIED FORWARD |
-| Egypt | CBE https://www.cbe.org.eg/en/economic-research/statistics/cbe-exchange-rates | 13 Oct 2026 | CARRIED FORWARD |
+## Authoritative official/reference checks
 
-## Raw values and calculations
-- Nigeria CBN selling rates (13 Oct): USD 1,332.9728 (NFEM weighted average; closing 1,335.50); GBP 1,766.0557; EUR 1,491.9965 (image/text show ₦1,492.00).
-- Ghana (buy / sell → mid): USD 11.7000 / 11.7118 → 11.7059; GBP 15.4991 / 15.5157 → 15.5074; EUR 13.0959 / 13.1089 → 13.1024.
-- Kenya (CBK average closing, 13 Oct, read from the PDF image at 200 dpi): USD 129.79; GBP 171.92; EUR 145.29.
-- South Africa (carried): USD 16.4601; GBP 21.7850; EUR 18.4090.
-- Egypt (carried; mid of buy/sell, as validated 14 Oct): USD 52.8362; GBP 69.9736; EUR 59.1078.
-- Movement lines in the text (computed by renderer vs 13 Oct Flagship): Ghana cedi stronger vs 12 Oct (largest USD 0.54%); Egypt pound weaker vs 12 Oct (largest GBP 0.41%). Kenya and South Africa lines are omitted because the prior Flagship carried the same as-of date (see issue 3).
+| Market | Effective | Final USD / GBP / EUR | Validation |
+|---|---:|---|---|
+| Nigeria | 13 Oct | 1332.9728 / 1766.0557 / 1491.9965 | CBN `/api/GetAllExchangeRates`; USD also checked against the NFEM graph feed |
+| Ghana | 13 Oct | 11.7059 / 15.5074 / 13.1024 | Bank of Ghana buy/sell table; published mids recomputed |
+| Kenya | 13 Oct close | 129.79 / 171.92 / 145.29 | CBK Daily KES table; commercial-banks’ average closing rates, not standalone buy/sell quotes |
+| South Africa | 14 Oct | 16.4706 / 21.8458 / 18.4545 | SARB `HomePageRates` endpoint |
+| Egypt | 13 Oct | 52.8362 / 69.9736 / 59.1078 | Latest verified CBE buy/sell mids; carried with true effective date because CBE was unavailable during validation |
 
-## Carried-forward values
-- **South Africa, 13 Oct ~10:30**: `custom.resbank.co.za` HomePageRates returns CONNECT 403 from this environment (and DNS failure via WebFetch); the resbank.co.za page renders no table. Values equal those Codex directly confirmed via HomePageRates at 07:18 WAT on 14 Oct. The 14 Oct 10:30 figures could not be retrieved. **Codex: please re-read HomePageRates and update if the 14 Oct figures are available.**
-- **Egypt, 13 Oct**: cbe.org.eg returns "Request Rejected" (WAF) to both curl and WebFetch. Values are the CBE 13 Oct figures validated by Codex at 07:18 WAT. Effective date shown as 13 Oct. **Codex: please re-read if CBE has a 14 Oct table.**
+## Nigeria parallel-market controls
 
-## Nigeria parallel — NOT PUBLISHED (BLOCKED_SOURCE)
-No parallel-market page could be fetched from this environment (all hosts blocked or unresolvable). Search-result snippets only (unverifiable, undated times, not independent observations I could verify): USD roughly ₦1,365 buy / ₦1,373–1,390 sell around 13–14 Oct. Per the no-fabrication rule, no Source A/Source B observation is recorded, and no range, AMB midpoint or premium is published. Dataset omits them; renderers show "Not sourced". The 14 Oct Early Look (validated/published) contains the previous-close ranges (USD buy 1,365–1,375 / sell 1,375–1,390 etc.); those are previous-close/early values and I did not reuse them as Flagship current observations.
-**Codex: if you can obtain ≥2 verified current independent observations per currency (Source A / Source B with quote and timestamp), add them to the dataset (range gate max(₦20, 1.5% of midpoint) with range_flag_acknowledged + reason if exceeded), compute premium = buy mid ÷ CBN selling − 1, and re-render. The image then also shows the "USD: Nigeria Official vs Parallel Premium." treatment only if the renderer carries it (the current renderer shows per-card premium badges; no separate callout appeared in the staged image because no premium exists).**
+Public wording remains: **“Aggregated from multiple independent market sources.”** No provider names appear in the dataset, image, website or social caption.
 
-## Unresolved issues
-1. Nigeria parallel withheld (above).
-2. SARB and CBE carried forward (above).
-3. Kenya label history: the published 13 Oct Flagship labelled the CBK 12 Oct close as 13 Oct. Today's PDF is the true 13 Oct close (129.79 / 171.92 / 145.29). Today's USD move vs the 13 Oct Flagship figure is +0.06% (129.71 → 129.79).
-4. CBN has not yet posted 14 Oct; benchmarks are one day old and labelled 13 Oct.
-5. GH₵ renders as "GH¢" in the image font, matching the approved rendering.
+| Pair | 14 Oct buy range | 14 Oct sell range | Buy midpoint | AMB midpoint | Premium vs CBN selling |
+|---|---:|---:|---:|---:|---:|
+| USD/NGN | 1355–1375 | 1364–1390 | 1365.00 | 1371.00 | +2.40% |
+| GBP/NGN | 1782–1850 | 1806–1880 | 1816.00 | 1829.50 | +2.83% |
+| EUR/NGN | 1496–1550 | 1539–1590 | 1523.00 | 1543.75 | +2.08% |
 
-## Render / test results
-- `python3 tools/render.py`: passed ("rendered edition 2026-10-14"); provider-name check passed; site pages reverted, not staged.
-- `python3 tools/render_fx_social_text.py --input data/fx/2026-10-14.json`: ran; five-country coverage, FX URL and disclaimer present.
-- `python3.13 tools/render_fx_social.py --input data/fx/2026-10-14.json`: ran; 1080×1350. Visual comparison: every official value, date, label, Not sourced marker, footnote and URL matches the dataset.
-- No parallel-provider names or URLs in any staged file.
+The published ranges preserve material same-day dispersion. Each wide range has `range_flag_acknowledged`, at least three documented observations, and a `range_flag_reason`. Premiums were independently recomputed as `(parallel buy midpoint / CBN selling rate - 1) × 100` and match the stored two-decimal values.
 
-PREPARED — NOT PUBLISHED
+## Render and visual QA
+
+- `python3 tools/render.py`: passed; generated pages, feeds and CSV from the final data.
+- `python3 tools/render_fx_social_text.py`: passed; country-by-country structure, FX URL, rates-vary language and informational-only disclaimer present.
+- `python3 tools/render_fx_social.py`: passed; 1080×1350.
+- Visual inspection passed for every official rate, parallel buy/sell range, premium, AMB midpoint, country row, effective date, freshness label, formula footnote and URL.
+
+VALIDATED — READY FOR WEBSITE-FIRST PUBLICATION
